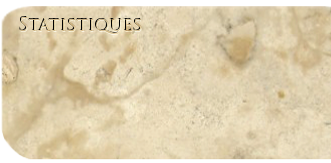
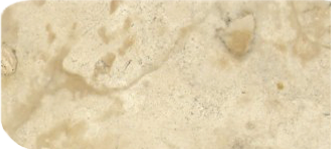
Réajustement du cadre de gauche

diff --git a/design/v4/co/design.css b/design/v4/co/design.css
@@ -835,8 +835,8 @@ select {
   background-position: left center;
   background-repeat: no-repeat;
   height: 163px;
-  width: 144px;
-  margin: 50px 0px 0px 18px;
+  width: 154px;
+  margin: 50px 0px 0px 8px;
 }
 
 #inside_co_int {
@@ -853,8 +853,8 @@ select {
 #inside_co_stat_int {
   float:left;
   position:relative;
-  width:142px;
-  margin:35px 0px 0px 2px;
+  width:152px;
+  margin:25px 0px 0px 2px;
   font-size:0.8em;
   color:#000;
 }
@@ -875,11 +875,11 @@ select {
 }
 
 #inside_co_ress_tab {
-  min-height:260px;
+  min-height:270px;
 }
 
 #inside_co_ress_tab table {
-  margin:65px 0px 0px 10px;
+  margin:60px 0px 0px 10px;
   font-size:0.9em;
 }
 
